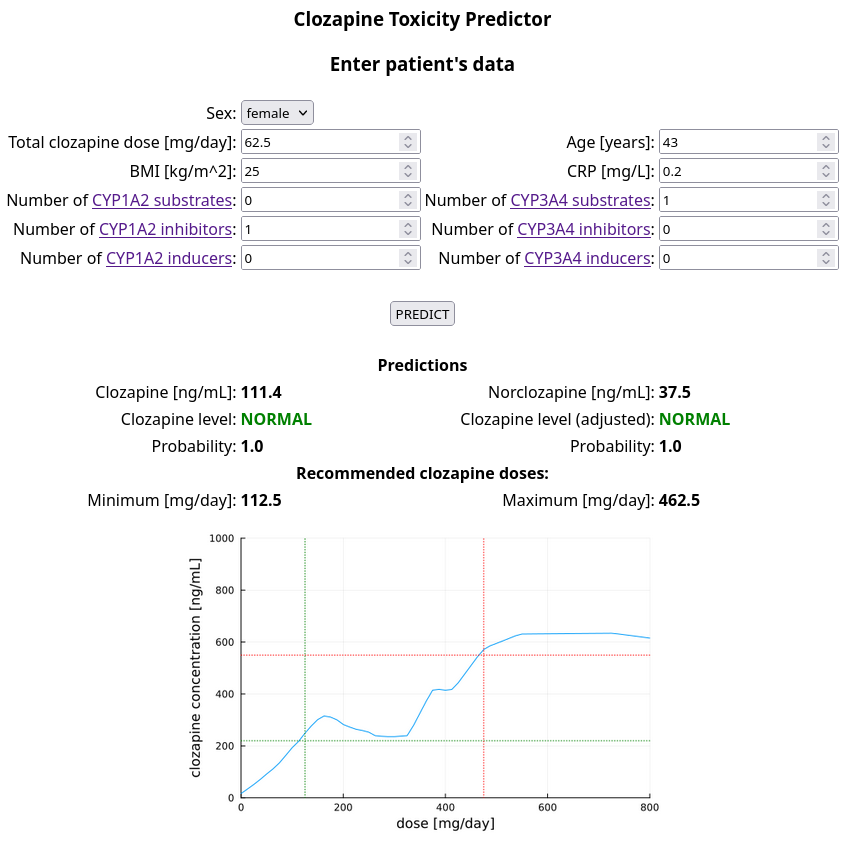
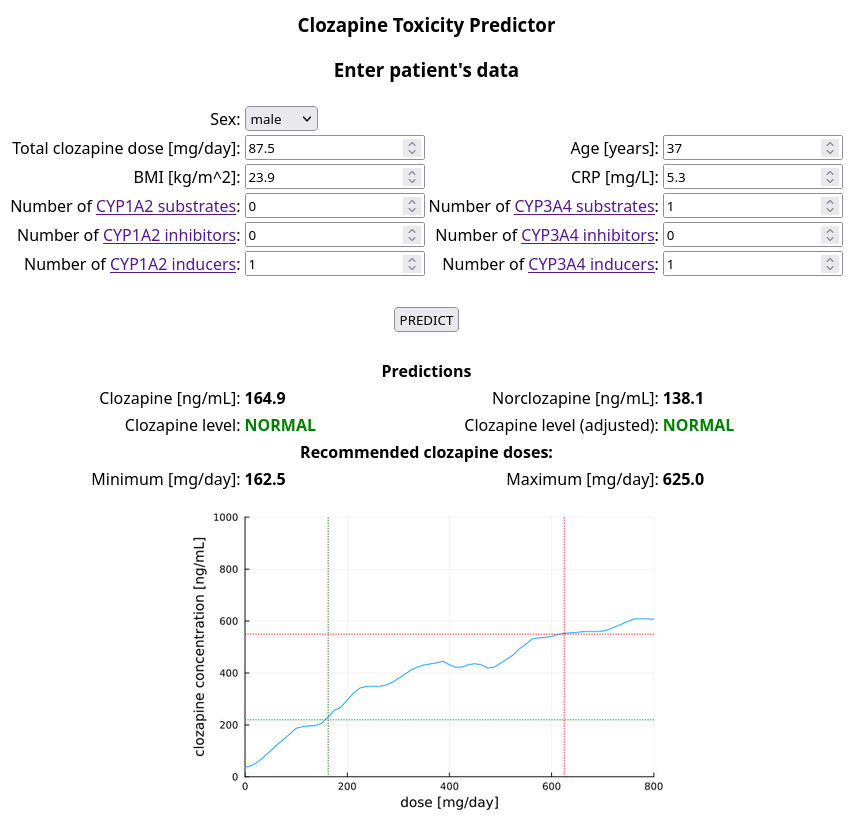
update

diff --git a/index.html b/index.html
@@ -138,12 +138,6 @@
           <td id="clo_group_adj" style="font-weight:bold"></td>
         </tr>
         <tr>
-          <td style="text-align:right">Probability:</td>
-          <td id="clo_group_p" style="font-weight:bold"></td>
-          <td style="text-align:right">Probability:</td>
-          <td id="clo_group_adj_p" style="font-weight:bold"></td>
-        </tr>
-        <tr>
           <td colspan=4>
             <center>
               <b>Recommended clozapine doses:</b>
@@ -169,9 +163,7 @@
 
   <script>
     document.getElementById("clo_group").innerHTML = "";
-    document.getElementById("clo_group_p").innerHTML = "";
     document.getElementById("clo_group_adj").innerHTML = "";
-    document.getElementById("clo_group_adj_p").innerHTML = "";
     document.getElementById("clo_level").innerHTML = "";
     document.getElementById("nclo_level").innerHTML = "";
     document.getElementById("submit").addEventListener("click",async() => {
@@ -193,14 +185,12 @@
       });
       const clo_prediction_response = await response.text();
       clo_group = clo_prediction_response.split(" ")[0];
-      clo_group_p = clo_prediction_response.split(" ")[1];
-      clo_group_adj = clo_prediction_response.split(" ")[2];
-      clo_group_adj_p = clo_prediction_response.split(" ")[3];
-      clo_level = clo_prediction_response.split(" ")[4];
-      nclo_level = clo_prediction_response.split(" ")[5];
-      dose1 = clo_prediction_response.split(" ")[6];
-      dose2 = clo_prediction_response.split(" ")[7];
-      plot = clo_prediction_response.split(" ")[8];
+      clo_group_adj = clo_prediction_response.split(" ")[1];
+      clo_level = clo_prediction_response.split(" ")[2];
+      nclo_level = clo_prediction_response.split(" ")[3];
+      dose1 = clo_prediction_response.split(" ")[4];
+      dose2 = clo_prediction_response.split(" ")[5];
+      plot = clo_prediction_response.split(" ")[6];
       console.log(clo_group);
       console.log(clo_group_adj);
       if (clo_group == 0) {
@@ -209,14 +199,12 @@
       else {
         document.getElementById("clo_group").style.color="red"
         document.getElementById("clo_group").innerHTML = "TOXIC"; }
-      document.getElementById("clo_group_p").innerHTML = clo_group_p;
       if (clo_group_adj == 0) {
         document.getElementById("clo_group_adj").style.color="green"
         document.getElementById("clo_group_adj").innerHTML = "NORMAL"; }
       else {
         document.getElementById("clo_group_adj").style.color="red"
         document.getElementById("clo_group_adj").innerHTML = "TOXIC"; }
-      document.getElementById("clo_group_adj_p").innerHTML = clo_group_adj_p;
       document.getElementById("clo_level").innerHTML = clo_level;
       document.getElementById("nclo_level").innerHTML = nclo_level;
       document.getElementById("dose1").innerHTML = dose1;
